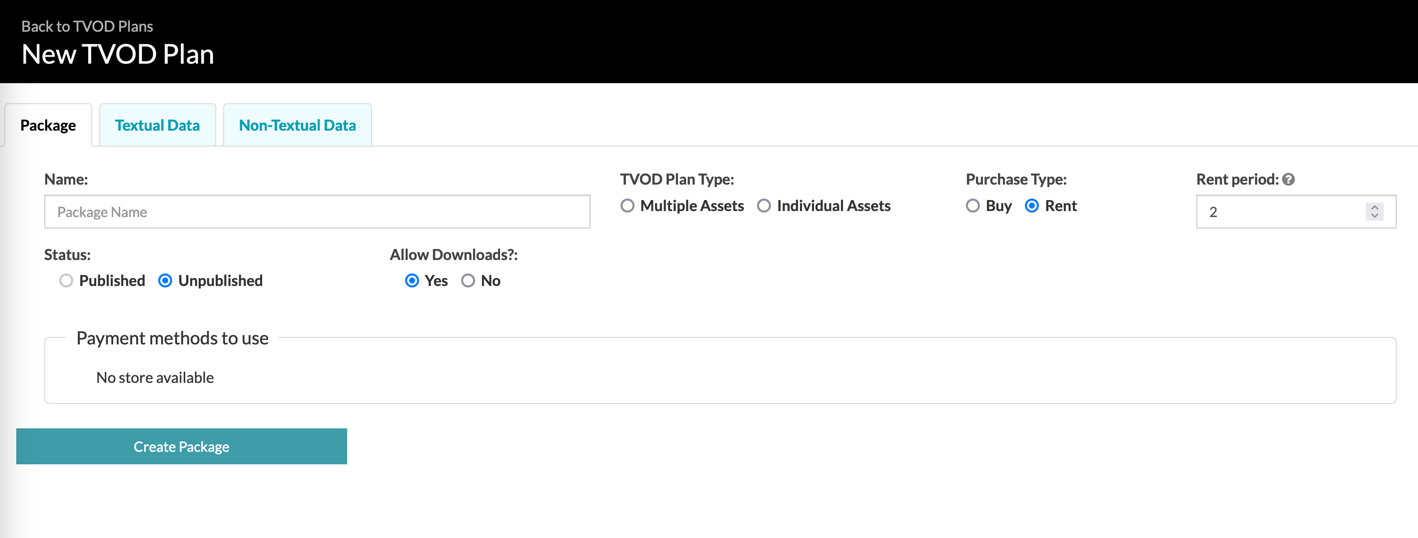
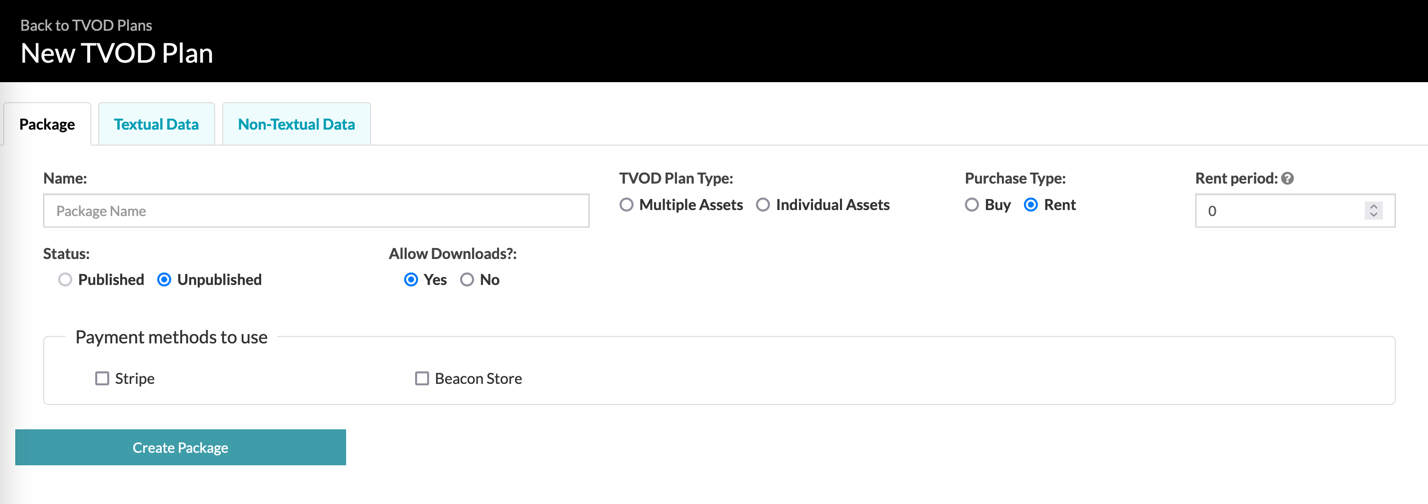
wip tvod payment methods

diff --git a/_site/monetization/general/implementing-tvod.html b/_site/monetization/general/implementing-tvod.html
@@ -935,7 +935,7 @@ function doGTranslate(lang_pair) {if(lang_pair.value)lang_pair=lang_pair.value;i
         </figure>
       </li>
       <li>
-        <p>For the Package tab, enter details for your TVOD Plan.</p>
+        <p>For the <strong>Package</strong> tab, enter details for your TVOD Plan.</p>
         <figure class="bcls-figure">
           <img class="bcls-image" src="/assets/images/s-monetization-img/implementing-tvod/package-tab-rent.png" alt="Package tab">
         </figure> 
@@ -1010,14 +1010,70 @@ function doGTranslate(lang_pair) {if(lang_pair.value)lang_pair=lang_pair.value;i
               <td><strong>Payment methods to use</strong></td>
               <td>Yes</td>
               <td>
-                
+                Select one of the following types:
+                  <ul>
+                      <li>
+                          Stripe
+                      </li>
+                      <li>
+                          Beacon Store
+                      </li>
+                  </ul> 
               </td>
             </tr>
           </tbody>
         </table>
       </li>
       <li>
-        <p>Enter the textual data for your plan.</p>
+        <p>In the <strong>Package</strong> tab, select <strong>Stripe</strong> to see <strong>Payment methods details</strong>.</p>
+        <figure class="bcls-figure">
+          <img class="bcls-image" src="/assets/images/s-monetization-img/implementing-tvod/stripe-details.png" alt="Stripe payment details">
+        </figure> 
+        <p>
+          This table contains the fields Stripe payment details: </p>
+        <table class="bcls-table">
+          <thead class="bcls-table__head">
+            <tr>
+              <th>Field</th>
+              <th>Required</th>
+              <th>Description</th>
+            </tr>
+          </thead>
+          <tbody class="bcls-table__body">
+            <tr>
+              <td><strong>Package Image</strong></td>
+              <td>No</td>
+              <td>Supply an image for use next to the package name</td>
+            </tr>
+          </tbody>
+        </table>
+      </li>
+      <li>
+        <p>In the <strong>Package</strong> tab, select <strong>Beacon Store</strong> to see <strong>Payment methods details</strong>.</p>
+        <figure class="bcls-figure">
+          <img class="bcls-image" src="/assets/images/s-monetization-img/implementing-tvod/beacon-store-details.png" alt="Beacon Store payment details">
+        </figure> 
+        <p>
+          This table contains the fields Beacon Store payment details: </p>
+        <table class="bcls-table">
+          <thead class="bcls-table__head">
+            <tr>
+              <th>Field</th>
+              <th>Required</th>
+              <th>Description</th>
+            </tr>
+          </thead>
+          <tbody class="bcls-table__body">
+            <tr>
+              <td><strong>Package Image</strong></td>
+              <td>No</td>
+              <td>Supply an image for use next to the package name</td>
+            </tr>
+          </tbody>
+        </table>
+      </li>
+      <li>
+        <p>For the <strong>Textual Data</strong> tab, enter details for your plan.</p>
         <figure class="bcls-figure">
           <img class="bcls-image" src="/assets/images/s-monetization-img/implementing-tvod/textual-data.png" alt="Textual Data tab">
         </figure> 
@@ -1033,16 +1089,20 @@ function doGTranslate(lang_pair) {if(lang_pair.value)lang_pair=lang_pair.value;i
           </thead>
           <tbody class="bcls-table__body">
             <tr>
-              <td><strong>Name</strong></td>
+              <td><strong>Pack Name</strong></td>
               <td>Yes</td>
-              <td>Name of the TVOD package</td>
+              <td>Display name shown to viewers</td>
             </tr>
-            
+            <tr>
+              <td><strong>Headline</strong></td>
+              <td>Yes</td>
+              <td>Description shown to viewers, for example <em>Holiday Special!</em></td>
+            </tr>
           </tbody>
         </table>
       </li>
       <li>
-        <p>Enter the non-textual data for your plan.</p>
+        <p>For the <strong>Non-Textual Data</strong> tab, enter details for your plan.</p>
         <figure class="bcls-figure">
           <img class="bcls-image" src="/assets/images/s-monetization-img/implementing-tvod/non-textual-data.png" alt="Non-Textual Data tab">
         </figure> 
@@ -1058,20 +1118,20 @@ function doGTranslate(lang_pair) {if(lang_pair.value)lang_pair=lang_pair.value;i
           </thead>
           <tbody class="bcls-table__body">
             <tr>
-              <td><strong>Name</strong></td>
-              <td>Yes</td>
-              <td>Name of the TVOD package</td>
+              <td><strong>Package Image</strong></td>
+              <td>No</td>
+              <td>Supply an image for use next to the package name</td>
             </tr>
-            
           </tbody>
         </table>
       </li>
+      <li>Click <strong>Create Package</strong>.</li>
 
     </ol>
   </section>
 
   <section class="bcls-section">
-    <h2 id="section-name">Add videos to the package in Studio</h2>
+    <h2 id="Assigning_TVOD_packages_to_content">Assigning TVOD packages to content</h2>
     <p>To add content to the package, you need to use Video Cloud Studio to assign values to custom fields. The two custom fields that you must assign values to for an AuthVOD package are:</p>
     <ul>
       <li>beacon.rights.&lt;counter&gt;.packageName</li>
